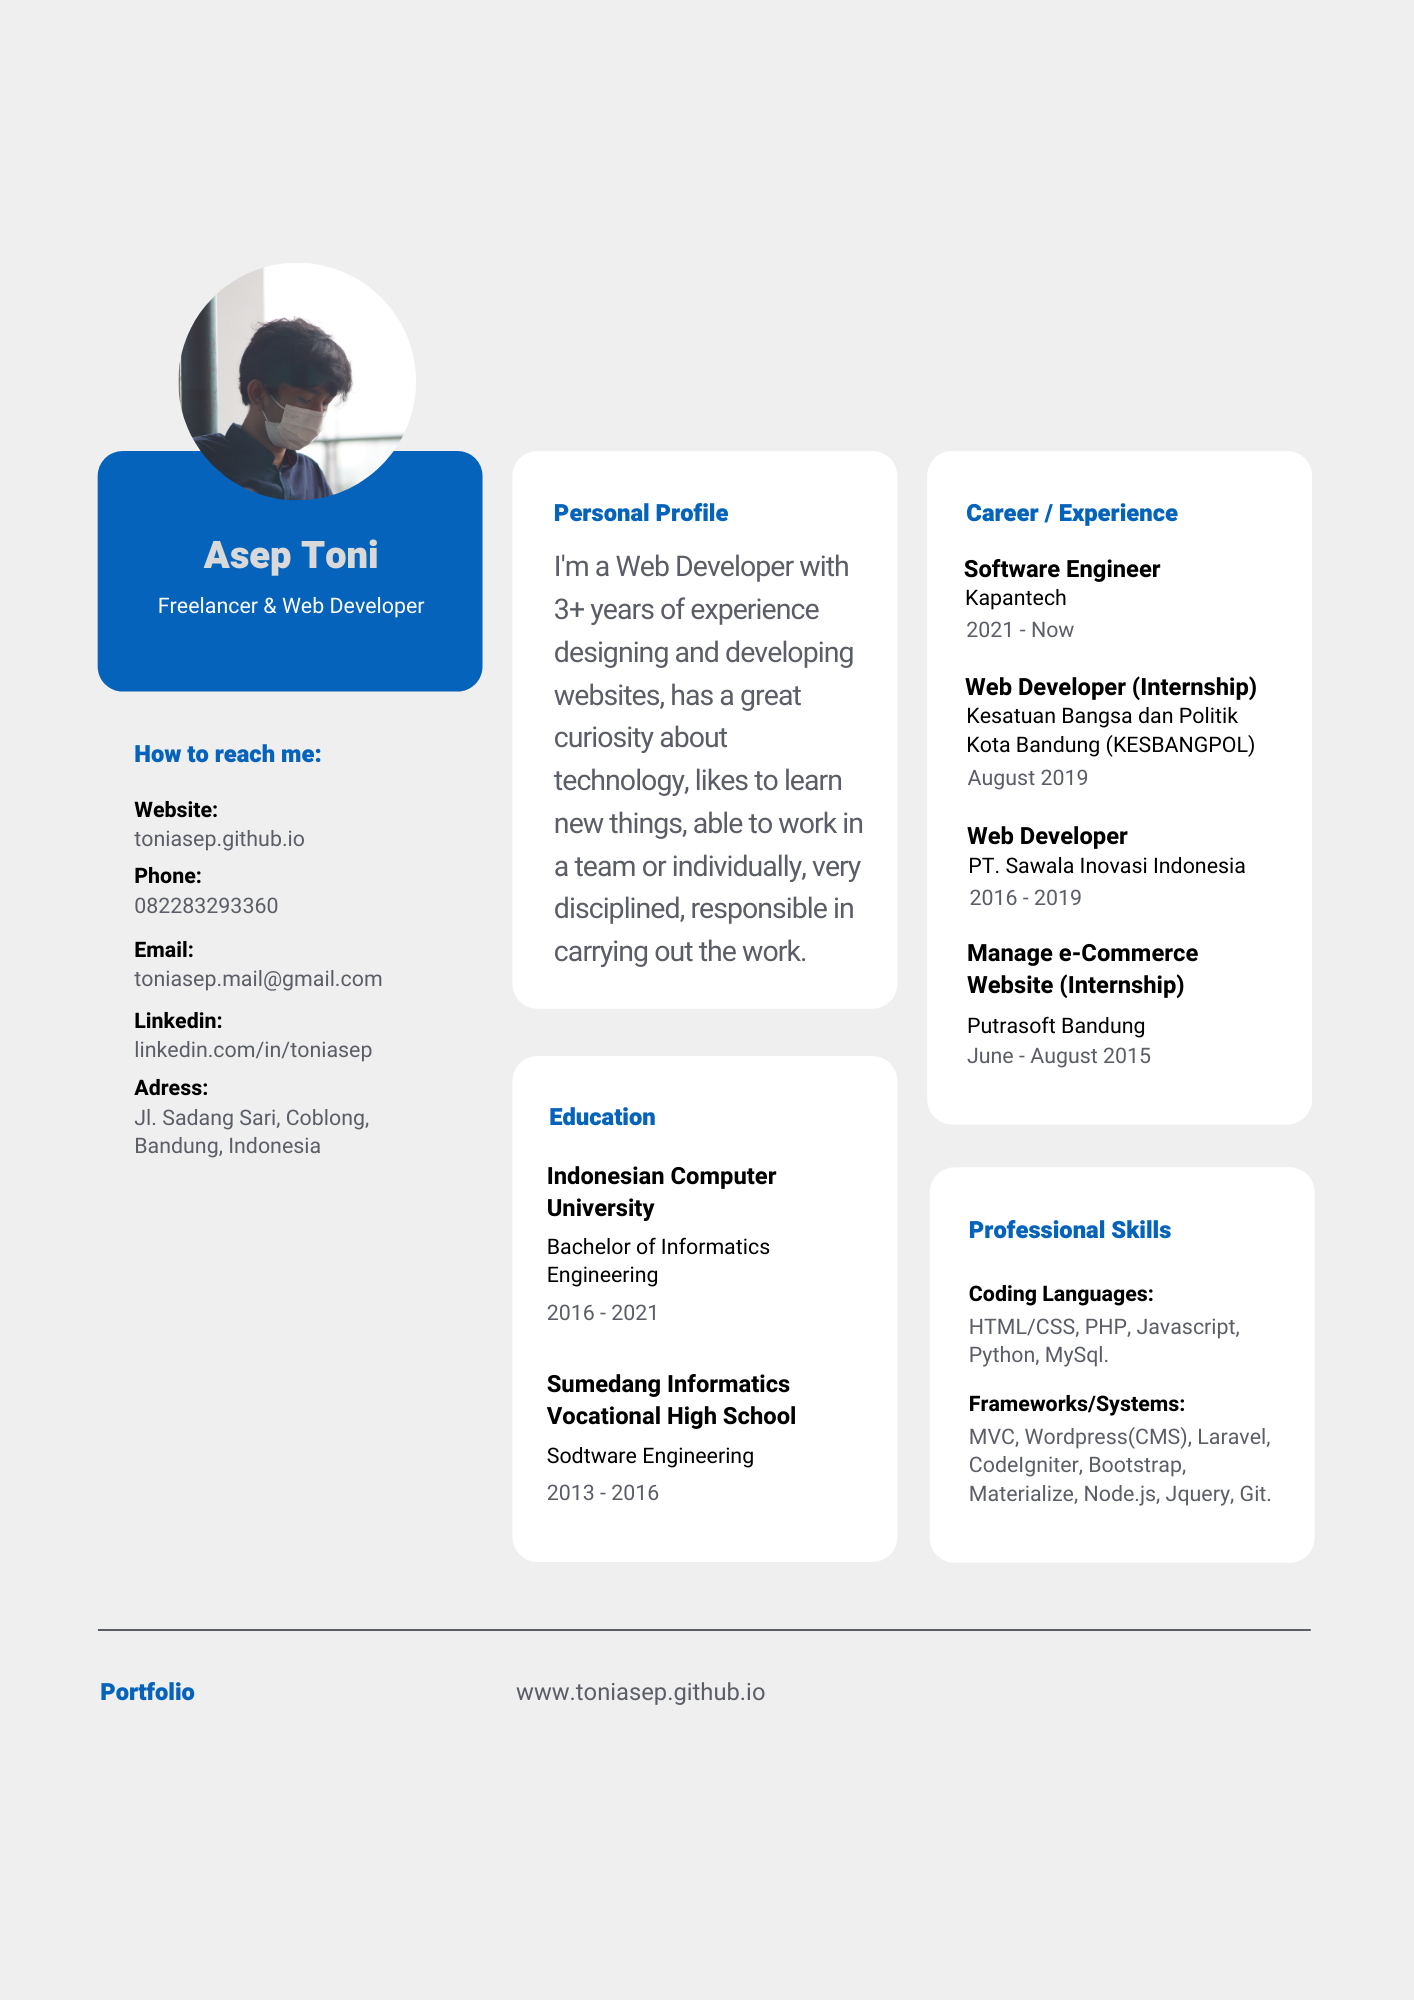
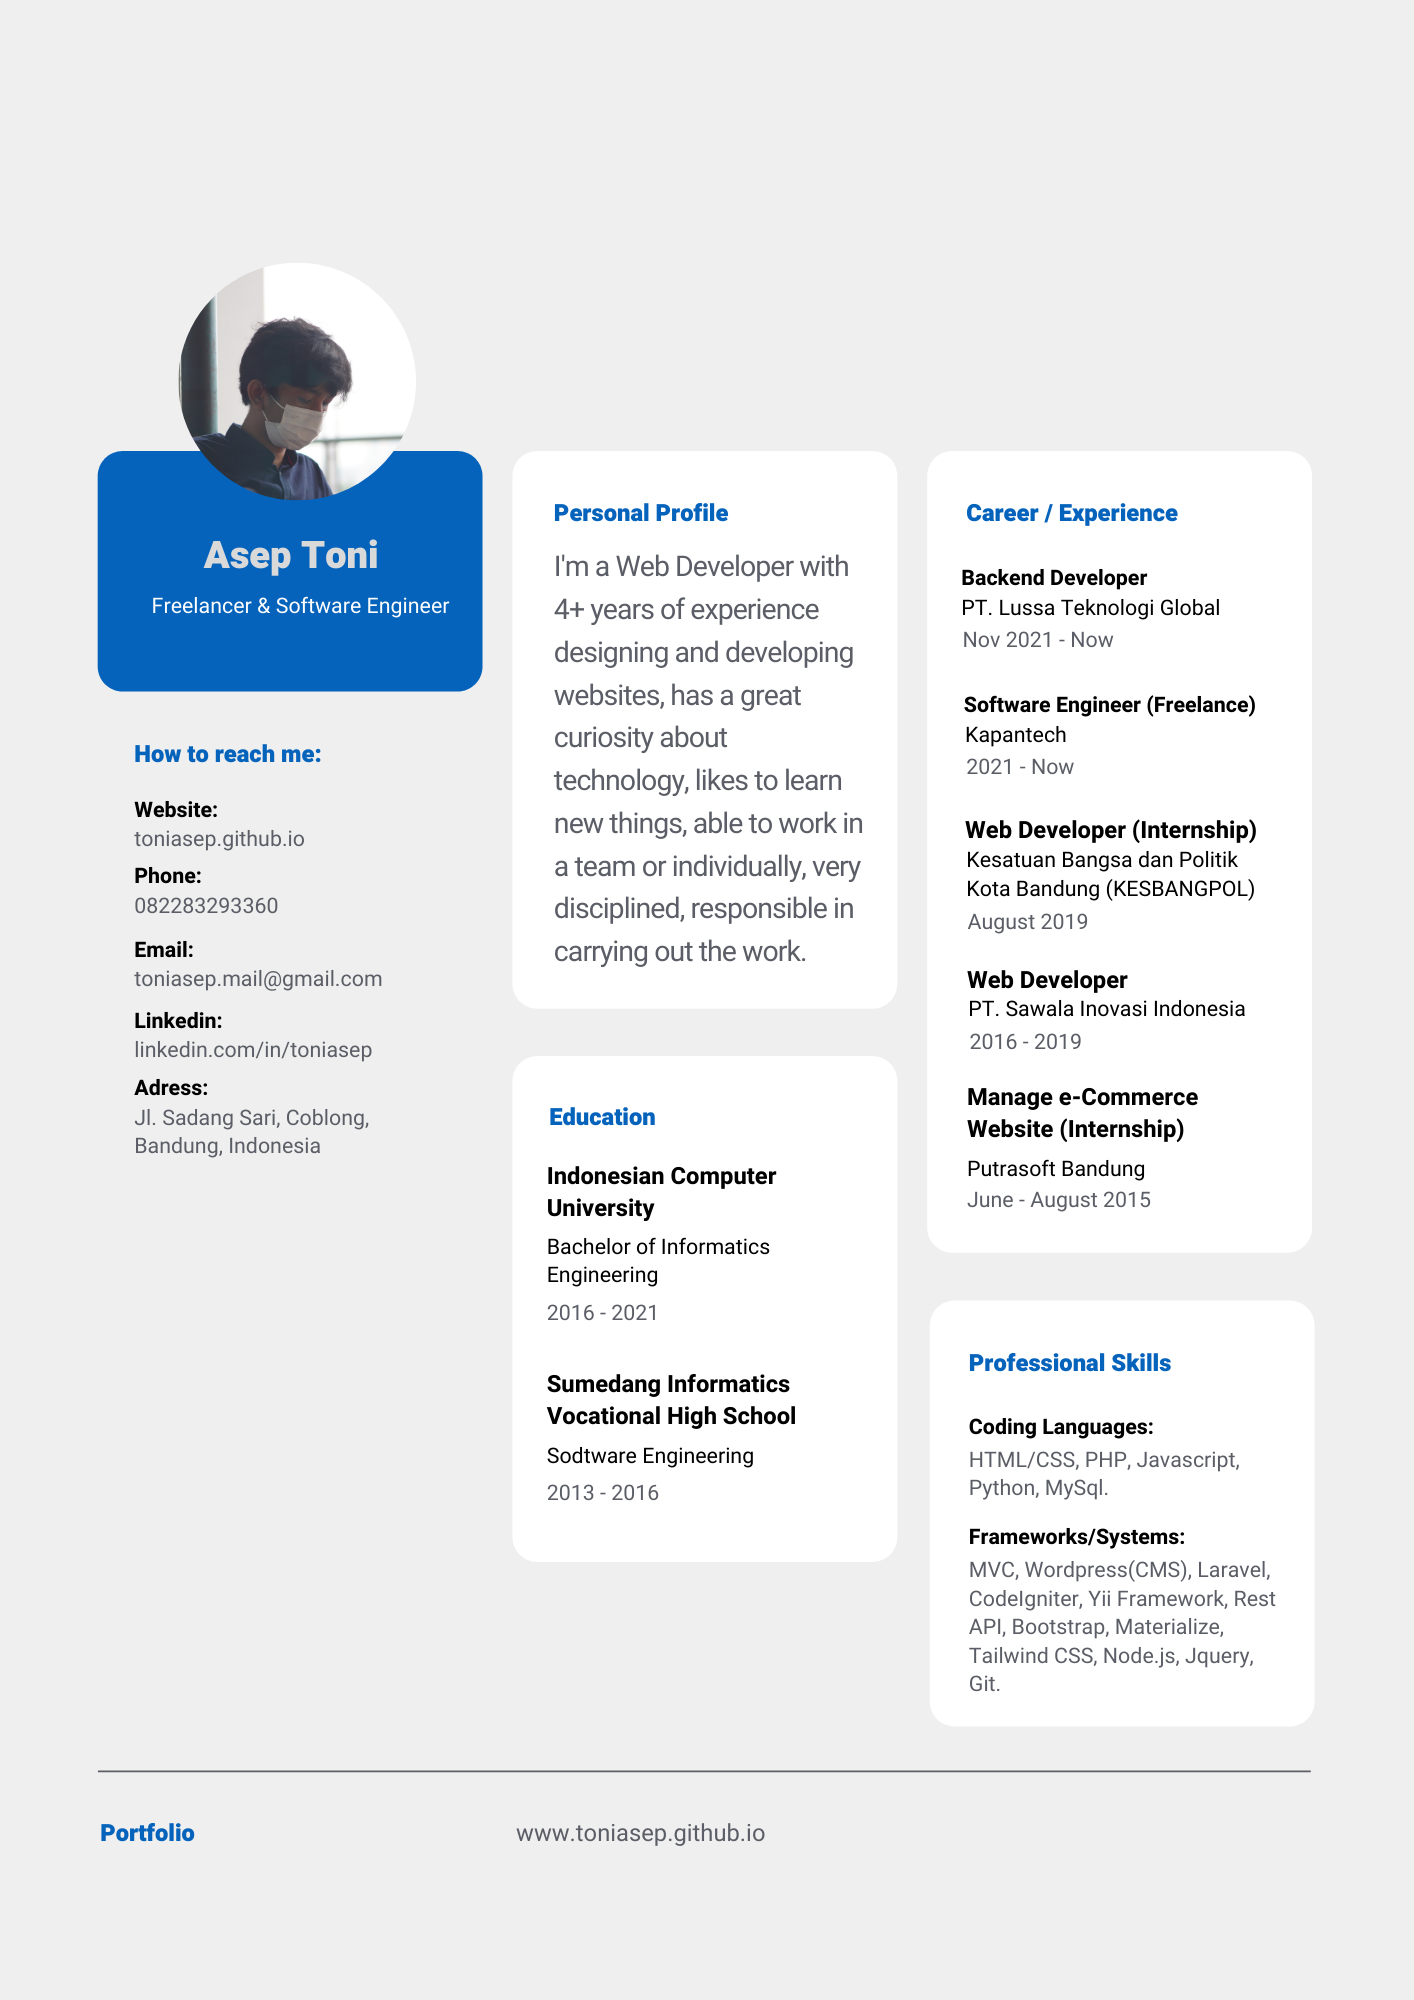
update 2022

diff --git a/index.html b/index.html
@@ -63,7 +63,7 @@
   <section id="hero" class="d-flex flex-column justify-content-center">
     <div class="container" data-aos="zoom-in" data-aos-delay="100">
       <h1>Asep Toni</h1>
-      <p>I'm <span class="typed" data-typed-items="Web Developer, Freelancer"></span></p>
+      <p>I'm <span class="typed" data-typed-items="Software Engineer, Web Developer, Freelancer"></span></p>
       <div class="social-links">
         <a href="https://instagram.com/toniiasep" target="_blank" class="instagram"><i class="bx bxl-instagram"></i></a>
         <a href="https://www.linkedin.com/in/toniasep/" target="_blank" class="linkedin"><i
@@ -144,6 +144,14 @@
                 </div>
               </div>
             </div>
+
+            <div class="progress">
+              <span class="skill">Tailwind CSS <i class="val">79%</i></span>
+              <div class="progress-bar-wrap">
+                <div class="progress-bar" role="progressbar" aria-valuenow="79" aria-valuemin="0" aria-valuemax="100">
+                </div>
+              </div>
+            </div>
             
             <div class="progress">
               <span class="skill">PHP <i class="val">89%</i></span>
@@ -193,6 +201,14 @@
               <span class="skill">Laravel & CodeIgniter<i class="val">88%</i></span>
               <div class="progress-bar-wrap">
                 <div class="progress-bar" role="progressbar" aria-valuenow="88" aria-valuemin="0" aria-valuemax="100">
+                </div>
+              </div>
+            </div>
+
+            <div class="progress">
+              <span class="skill">Yii Framework<i class="val">82%</i></span>
+              <div class="progress-bar-wrap">
+                <div class="progress-bar" role="progressbar" aria-valuenow="82" aria-valuemin="0" aria-valuemax="100">
                 </div>
               </div>
             </div>
@@ -270,7 +286,12 @@
           <div class="col-lg-6">
             <h3 class="resume-title">Experience</h3>
             <div class="resume-item">
-              <h4>Software Engineer</h4>
+              <h4>Backend Developer</h4>
+              <h5>Nov 2021 - Now</h5>
+              <p><em>PT Lussa Teknologi Global, Bandung, Indonesia</em></p>
+            </div>
+            <div class="resume-item">
+              <h4>Software Engineer(Freelance)</h4>
               <h5>2021 - Now</h5>
               <p><em>Kapantech, Bandung, Indonesia</em></p>
             </div>
@@ -327,6 +348,36 @@
         </div>
 
         <div class="row portfolio-container" data-aos="fade-up" data-aos-delay="200">
+
+          <div class="col-lg-4 col-md-6 portfolio-item filter-app">
+            <div class="portfolio-wrap">
+              <img src="assets/img/portfolio/big4.jpg" class="img-fluid" alt="">
+              <div class="portfolio-info">
+                <h4>Develop New Features | Badan Informasi Geospasial</h4>
+                <p>Yii Framework, Bootstrap & Javascript</p>
+                <div class="portfolio-links">
+                  <a href="assets/img/portfolio/big4.jpg" data-gallery="portfolioGallery" class="portfolio-lightbox"
+                    title="Backend Developer, Lead Dev, Communicate with Client"><i class="bx bx-plus"></i></a>
+                  <a href="portfolio-big.html" class="portfolio-details-lightbox" data-glightbox="type: external" title="Portfolio Details"><i class="bx bx-link"></i></a>
+                </div>
+              </div>
+            </div>
+          </div>
+
+          <div class="col-lg-4 col-md-6 portfolio-item filter-app">
+            <div class="portfolio-wrap">
+              <img src="assets/img/portfolio/sigma5.jpg" class="img-fluid" alt="">
+              <div class="portfolio-info">
+                <h4>Implement Payment Gateway (Midtrans) | Sigam ATK Store </h4>
+                <p>CodeIgniter, Bootstrap & Javascript</p>
+                <div class="portfolio-links">
+                  <a href="assets/img/portfolio/sigma5.jpg" data-gallery="portfolioGallery" class="portfolio-lightbox"
+                    title="Backend Developer"><i class="bx bx-plus"></i></a>
+                  <a href="portfolio-sigma.html" class="portfolio-details-lightbox" data-glightbox="type: external" title="Portfolio Details"><i class="bx bx-link"></i></a>
+                </div>
+              </div>
+            </div>
+          </div>
 
           <div class="col-lg-4 col-md-6 portfolio-item filter-app">
             <div class="portfolio-wrap">

diff --git a/portfolio-sigma.html b/portfolio-sigma.html
@@ -41,24 +41,37 @@
 
     <!-- ======= Portfolio Details Section ======= -->
     <section id="portfolio-details" class="portfolio-details">
-      <div class="container">
+      <div class="container-fluid">
 
         <div class="row gy-4">
+
+          <div class="col-lg-12">
+            <h4>Implement Payment Gateway (Midtrans) | Sigam ATK Store </h4>
+            <p>CodeIgniter, Bootstrap & Javascript</p>
+          </div>
 
           <div class="col-lg-8">
             <div class="portfolio-details-slider swiper">
               <div class="swiper-wrapper align-items-center">
 
                 <div class="swiper-slide">
-                  <img src="assets/img/portfolio/airmarindo.jpg" alt="">
+                  <img src="assets/img/portfolio/sigma.jpg" alt="">
                 </div>
 
                 <div class="swiper-slide">
-                  <img src="assets/img/portfolio/bumilangit.jpg" alt="">
+                  <img src="assets/img/portfolio/sigma1.jpg" alt="">
                 </div>
 
                 <div class="swiper-slide">
-                  <img src="assets/img/portfolio/rumahimperium.jpg" alt="">
+                  <img src="assets/img/portfolio/sigma2.jpg" alt="">
+                </div>
+
+                <div class="swiper-slide">
+                  <img src="assets/img/portfolio/sigma3.jpg" alt="">
+                </div>
+
+                <div class="swiper-slide">
+                  <img src="assets/img/portfolio/sigma4.jpg" alt="">
                 </div>
 
               </div>
@@ -70,18 +83,25 @@
             <div class="portfolio-info">
               <h3>Project information</h3>
               <ul>
-                <li><strong>Category</strong>: Web design</li>
-                <li><strong>Client</strong>: ASU Company</li>
-                <li><strong>Project date</strong>: 01 March, 2020</li>
-                <li><strong>Project URL</strong>: <a href="#">www.example.com</a></li>
+                <li><strong>Category</strong>: Web Development</li>
+                <li><strong>Client</strong>: Sigma ATK</li>
+                <li><strong>Project date</strong>: November, 2021</li>
+                <li><strong>Project URL</strong>: <a href="#">-</a></li>
               </ul>
             </div>
-            <div class="portfolio-description">
-              <h2>This is an example of portfolio detail</h2>
+            <div class="portfolio-info">
+              <h3>Project Detail</h3>
+              <p>
+                Implement payment gateway (midtrans), voucher system, emailing customer, quotation system, and member area on Sigma ATK
+                Website
+              </p>
+            </div>
+            <!-- <div class="portfolio-description">
+              <h2>Portfolio detail</h2>
               <p>
                 Autem ipsum nam porro corporis rerum. Quis eos dolorem eos itaque inventore commodi labore quia quia. Exercitationem repudiandae officiis neque suscipit non officia eaque itaque enim. Voluptatem officia accusantium nesciunt est omnis tempora consectetur dignissimos. Sequi nulla at esse enim cum deserunt eius.
               </p>
-            </div>
+            </div> -->
           </div>
 
         </div>

diff --git a/portfolio-big.html b/portfolio-big.html
@@ -41,24 +41,37 @@
 
     <!-- ======= Portfolio Details Section ======= -->
     <section id="portfolio-details" class="portfolio-details">
-      <div class="container">
+      <div class="container-fluid">
 
         <div class="row gy-4">
+
+          <div class="col-lg-12">
+            <h4>Develop New Features | Badan Informasi Geospasial</h4>
+            <p>Yii Framework, Bootstrap & Javascript</p>
+          </div>
 
           <div class="col-lg-8">
             <div class="portfolio-details-slider swiper">
               <div class="swiper-wrapper align-items-center">
 
                 <div class="swiper-slide">
-                  <img src="assets/img/portfolio/airmarindo.jpg" alt="">
+                  <img src="assets/img/portfolio/big.jpg" alt="">
                 </div>
 
                 <div class="swiper-slide">
-                  <img src="assets/img/portfolio/bumilangit.jpg" alt="">
+                  <img src="assets/img/portfolio/big1.jpg" alt="">
                 </div>
 
                 <div class="swiper-slide">
-                  <img src="assets/img/portfolio/rumahimperium.jpg" alt="">
+                  <img src="assets/img/portfolio/big2.jpg" alt="">
+                </div>
+
+                <div class="swiper-slide">
+                  <img src="assets/img/portfolio/big3.jpg" alt="">
+                </div>
+
+                <div class="swiper-slide">
+                  <img src="assets/img/portfolio/big4.jpg" alt="">
                 </div>
 
               </div>
@@ -70,18 +83,24 @@
             <div class="portfolio-info">
               <h3>Project information</h3>
               <ul>
-                <li><strong>Category</strong>: Web design</li>
-                <li><strong>Client</strong>: ASU Company</li>
-                <li><strong>Project date</strong>: 01 March, 2020</li>
-                <li><strong>Project URL</strong>: <a href="#">www.example.com</a></li>
+                <li><strong>Category</strong>: Web Development</li>
+                <li><strong>Client</strong>: Badan Informasi Geospasial </li>
+                <li><strong>Project date</strong>: Oktober, 2021</li>
+                <li><strong>Project URL</strong>: <a href="#">-</a></li>
               </ul>
             </div>
-            <div class="portfolio-description">
-              <h2>This is an example of portfolio detail</h2>
+            <div class="portfolio-info">
+              <h3>Project Detail</h3>
+              <p>
+                Create New Login System (Non ASN), CRUD System Some Content, Management User Role, Create API for Frontend, Statistics, and Notif Log User.
+              </p>
+            </div>
+            <!-- <div class="portfolio-description">
+              <h2>Portfolio detail</h2>
               <p>
                 Autem ipsum nam porro corporis rerum. Quis eos dolorem eos itaque inventore commodi labore quia quia. Exercitationem repudiandae officiis neque suscipit non officia eaque itaque enim. Voluptatem officia accusantium nesciunt est omnis tempora consectetur dignissimos. Sequi nulla at esse enim cum deserunt eius.
               </p>
-            </div>
+            </div> -->
           </div>
 
         </div>
